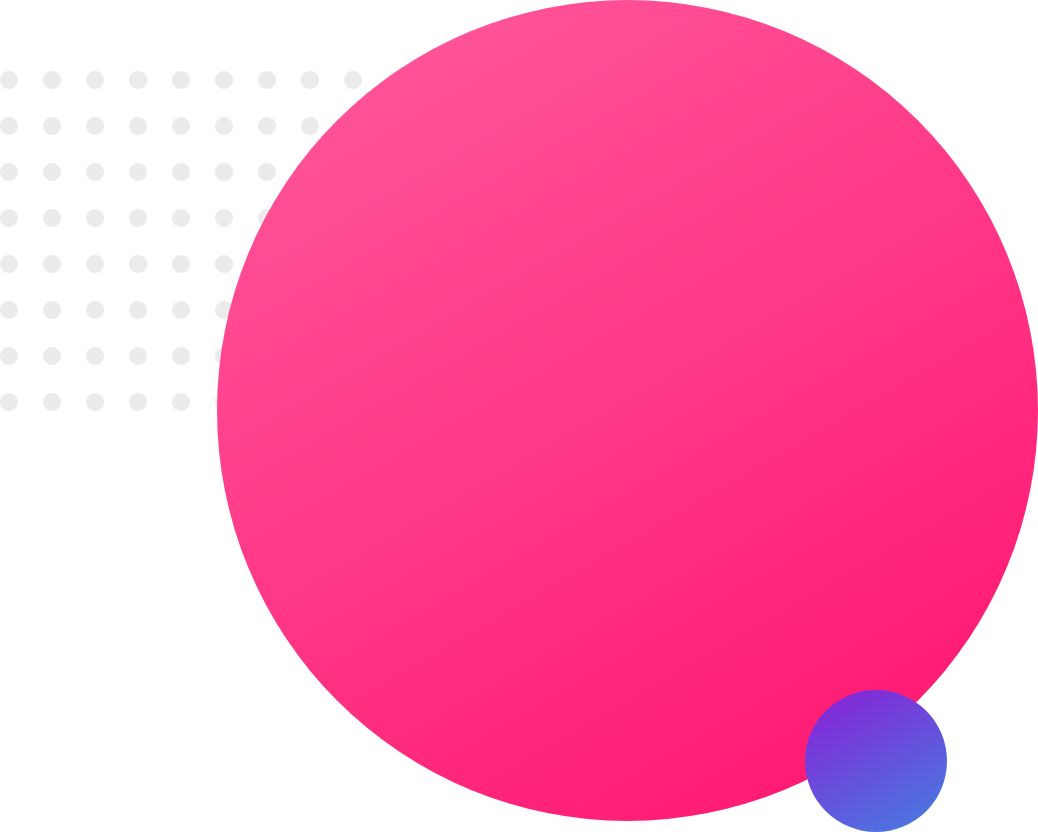
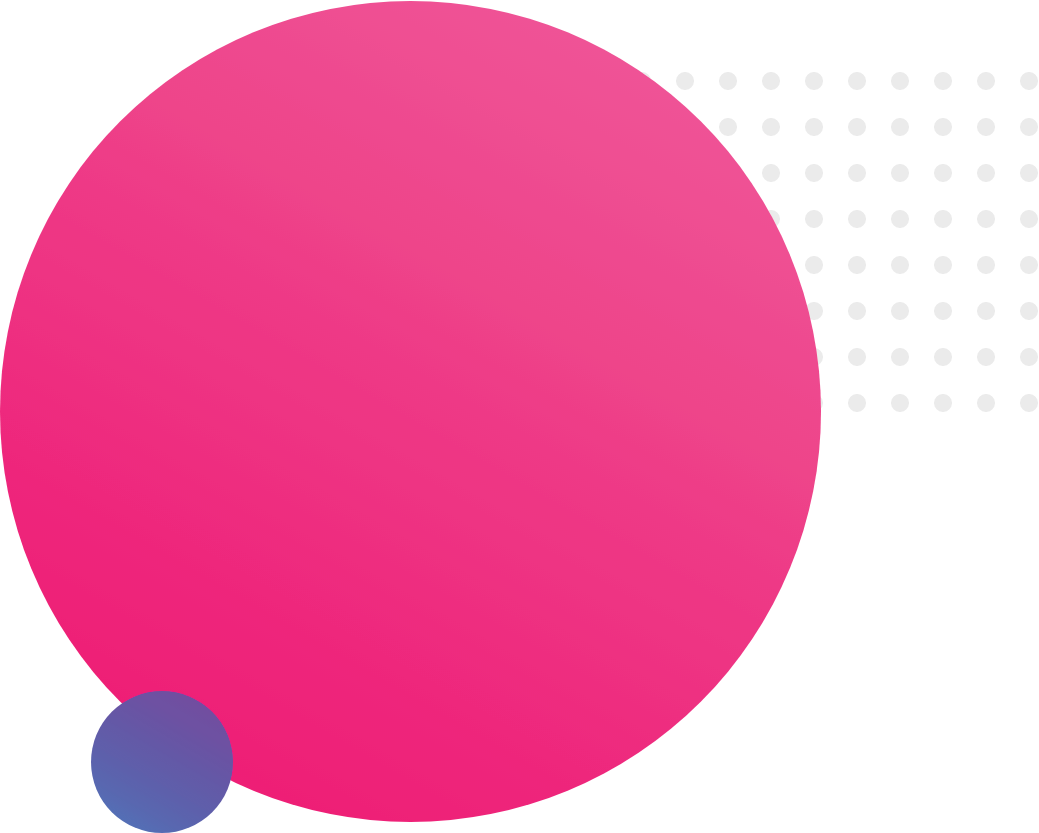
Faisal Portfolio

diff --git a/index.html b/index.html
@@ -2,6 +2,7 @@
 <html lang="en">
 
 <head>
+
     <!-- Meta elements -->
     <meta charset="UTF-8">
     <meta name="viewport" content="width=device-width, initial-scale=1.0">
@@ -19,19 +20,17 @@
 <body>
 
     <!-- Top Section -->
+
     <section class="top-section">
         <div class="half-section">
             <h1>Welcome To</h1>
             <h1><span class="color-style">FAISAL WAHAB's</span> Portfolio</h1>
             <h3>Professional Web Developer</h3>
-            <p>Lorem, ipsum dolor sit amet consectetur adipisicing elit. Aperiam numquam necessitatibus ea sed. Tempora
-                dignissimos alias doloremque, iste eos assumenda unde qui dolore quo illum, nostrum, eligendi quaerat
-                numquam
-                aut?
-                Lorem ipsum dolor sit amet, consectetur adipisicing elit. Eligendi tempore ipsum facilis aperiam ipsa
-                placeat perspiciatis quos natus autem, amet accusamus
-            </p>
-            <a class="about_btn" target="_blank" href="#">ABOUT ME</a>
+            <p>I'm Faisal Wahab a Professional Front-End Web Developer, live in Dhaka, Bangladesh. I have serious
+                passion about web technologies such as designing and developing. I'm new in developing department but
+                I'm experienced in creative designing.</p>
+            <a class="about_btn" target="_blank"
+                href="https://www.linkedin.com/in/md-faisal-wahab-bhuiyan-072899127/">ABOUT ME</a>
         </div>
 
         <div class="half-section">
@@ -40,6 +39,7 @@
     </section>
 
     <!-- Dream Section -->
+
     <section class="dream-section">
         <div class="half-section">
             <img src="images/dream-img1.png" alt="Portfolio picture">
@@ -48,18 +48,17 @@
         <div class="half-section">
             <h1>Dream Big</h1>
             <h3>Become a Web Developer</h3>
-            <p>Lorem, ipsum dolor sit amet consectetur adipisicing elit. Aperiam numquam necessitatibus ea sed. Tempora
-                dignissimos alias doloremque, iste eos assumenda unde qui dolore quo illum, nostrum, eligendi quaerat
-                numquam
-                aut?
-                Lorem ipsum dolor sit amet, consectetur adipisicing elit. Eligendi tempore ipsum facilis aperiam ipsa
-                placeat perspiciatis quos natus autem, amet accusamus
+            <p>I already learned the basic HTML and CSS. I can build any simple website. I can even teach myself how
+                to make complicated website with various functionalities like CSS animation and jQuery plugins. My
+                primary goal for the next month is to build 3 simple but complicated websites and learn advanced topics.
             </p>
-            <a class="about_btn" target="_blank" href="#">DOWNLOAD PORFOLIO</a>
+            <a class="about_btn" target="_blank"
+                href="https://www.linkedin.com/in/md-faisal-wahab-bhuiyan-072899127/">DOWNLOAD PORFOLIO</a>
         </div>
     </section>
 
     <!-- Experience Section -->
+
     <section class="exp-section">
         <h1>Experiences</h1>
         <div id="exp-full-stack" class="half-section exp-shadow">
@@ -67,25 +66,23 @@
             <h3 class="color-style">2021-Present | Pro Level Developer</h3>
             <p>I am the master of HTML, CSS and Javascript. I know everything needed to make a website function,
                 efficient. I didn't stop with the web. I went beyond with most popular Javascript framework called React
-                JS. I even know the deployment, server and security. I will give you 100% web solution.
-            </p>
+                JS. I even know the deployment, server and security. I will give you 100% web solution.</p>
         </div>
 
         <div id="exp-baby" class="half-section exp-shadow">
             <h2>Baby Web Developer</h2>
             <h3 class="color-style">2020-2021 | Programming Hero Learner</h3>
             <p>They didn't offer me a job. But I made myself as a remove web developer. I made their website and showed
-                it to them. They liked it. And uploaded the content. It was fun working at Programming Hero.
-            </p>
+                it to them. They liked it. And uploaded the content. It was fun working at Programming Hero.</p>
         </div>
     </section>
 
     <!-- Footer Section -->
+
     <footer>
         <p>© <span class="color-style">Faisal Wahab</span> 2021, Learning is fun with <a class="color-style"
                 href="https://www.programming-hero.com/">Programming
-                Hero</a> Team.
-        </p>
+                Hero</a> Team.</p>
     </footer>
 </body>
 

diff --git a/css/style.css b/css/style.css
@@ -3,7 +3,7 @@ body {
     margin: 0;
 }
 .top-section {
-    background-image: url("../images/banner.png");
+    background-image: url("../images/top-banner.png");
     background-repeat: no-repeat;
     height: 650px;
     margin-bottom: 50px;
